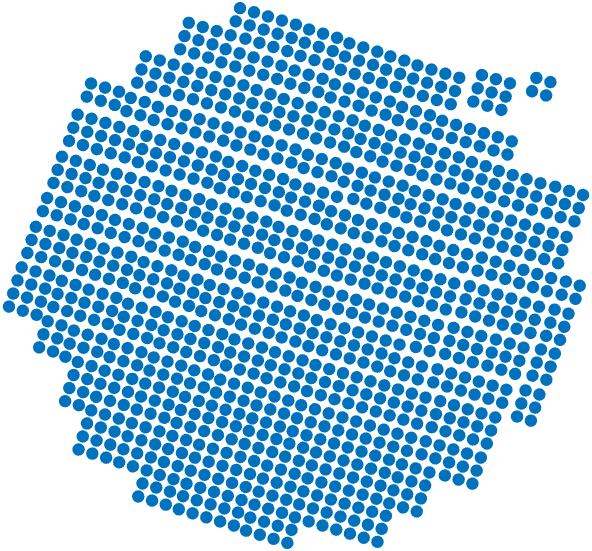
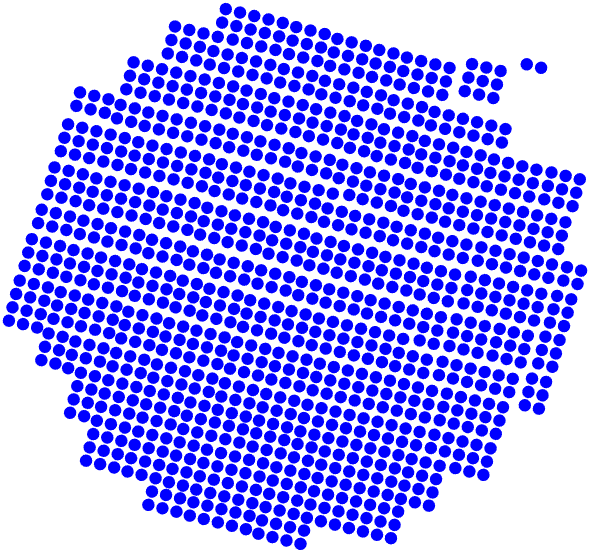
update

diff --git a/test.m b/test.m
@@ -1,0 +1,93 @@
+rng(1)
+close all
+num_points = 1000; % Number of random points
+xc = 0; % Center x-coordinate
+yc = 0; % Center y-coordinate
+width = 2; % Rectangle width
+height = 2; % Rectangle height
+theta = pi / 6; % Rotation angle (30 degrees)
+
+points = generate_random_points_in_rotated_rectangle(num_points, xc, yc, width, height, theta);
+
+
+% 计算数据的均值
+data_mean = mean(points);
+
+% 将数据中心化
+centered_data = points - data_mean;
+
+% 计算协方差矩阵
+cov_matrix = cov(centered_data);
+
+% 进行特征值分解
+[eigenvectors, eigenvalues] = eig(cov_matrix);
+
+% 提取特征值和特征向量
+[~, idx] = sort(diag(eigenvalues), 'descend'); % 按降序排序特征值
+principal_components = eigenvectors(:, idx);
+
+% 将数据投影到主成分方向
+transformed_data = centered_data * principal_components;
+
+% 绘制原始数据点云
+fig = figure("Name", "figure");
+
+subplot(1, 2, 1);
+scatter(points(:,1), points(:,2), 10, 'filled', 'color', 'b');
+hold on;
+title('Original 2D Points');
+xlabel('X');
+ylabel('Y');
+grid on;
+axis equal;
+
+% 绘制主成分方向
+for i = 1:2
+    % 绘制每个主成分方向
+    line([data_mean(1), data_mean(1) + principal_components(1,i)], ...
+         [data_mean(2), data_mean(2) + principal_components(2,i)], ...
+         'Color', 'r', 'LineWidth', 2, 'LineStyle', '--');
+end
+
+% 绘制中心点
+plot(data_mean(1), data_mean(2), 'kx', 'MarkerSize', 10, 'LineWidth', 2);
+hold off;
+legend({'Data Points', 'Principal Components'},'box', 'off');
+
+% 绘制转换后的数据点云
+subplot(1, 2, 2);
+scatter(transformed_data(:,1), transformed_data(:,2), 10, 'filled', 'color', 'b');
+title('PCA Transformed 2D Points');
+xlabel('Principal Component 1');
+ylabel('Principal Component 2');
+axis equal;
+grid on;
+
+% 设置整个图形窗口的属性
+set(gcf, 'Position', [100, 100, 800, 400]);
+
+exportgraphics(fig, "figure/f18.png", 'Resolution', 600);
+
+function points = generate_random_points_in_rotated_rectangle(num_points, xc, yc, width, height, theta)
+    % Generate points in a rotated rectangle
+    
+    % Define half-width and half-height for convenience
+    half_width = width / 2;
+    half_height = height / 2;
+    
+    % Generate random points within the [-0.5, 0.5] range
+    random_points = (rand(num_points, 2) - 0.5) .* [width, height];
+    
+    % Create rotation matrix
+    rotation_matrix = [cos(theta), -sin(theta); sin(theta), cos(theta)];
+    
+    % Rotate points around the origin (0, 0)
+    rotated_points = (rotation_matrix * random_points')';
+    
+    % Translate points to the center (xc, yc)
+    translated_points = rotated_points + [xc, yc];
+    
+    % Output the generated points
+    points = translated_points;
+    
+end

diff --git a/Task2.m b/Task2.m
@@ -80,7 +80,7 @@ for i = [7 8]
     
     % 绘制结果
     figure;
-    scatter(projected_points(:,1), projected_points(:,2), 'filled');
+    scatter(projected_points(:,1), projected_points(:,2), 'filled', 'b');
     hold on;
     theta = linspace(0, 2*pi, 100);
     x = center(1) + radius * cos(theta);

diff --git a/readme.md b/readme.md
@@ -76,6 +76,23 @@ k=\frac{\log (1-p)}{\log \left(1-w^{n}\right)}
 \end{array}
 $$
 
+#### 2.1.4 实现
+
+MATLAB已有对RANSAC算法的封装好的实现，即：
+
+```MATLAB
+[model,inlierIdx] = ransac(data,fitFcn,distFcn,sampleSize,maxDistance)
+```
+
+此外，针对各种点云数据拟合的问题，MATLAB也提供了相应的函数，且使用了RANSAC算法的优化变种：MSAC算法。即：
+
+```MATLAB
+% 拟合平面
+model = pcfitplane(ptCloudIn,maxDistance)
+% 拟合球面
+model = pcfitsphere(ptCloudIn,maxDistance)
+```
+
 ### 2.2 PCA降维
 
 #### 2.2.1 主要概念
@@ -116,11 +133,17 @@ end
 
 ### 2.3 最小圆覆盖算法
 
+#### 2.3.1 点云数据处理中的最小圆覆盖问题
+
 在对点云的圆平面进行检测时，往往会遇到圆平面的边界难以检测的问题，如下图：
 
 ![alt text](figure/f16.png)
 
-我们显然对这个点云数据集代表的是一个圆平面这个猜测十分有把握，但是由于部分点云没有检测到或被处理掉，导致圆的边界有所缺失，此时，我们很难通过精确的数学方程来解决这个问题。这个问题可以抽象为：给定 $n$ 个点的平面坐标，求一个半径最小的圆，把 $n$ 个点全部包围。常用算法是 [Welzl's algorithm](http://www.sunshine2k.de/coding/java/Welzl/Welzl.html)。这里仅给出该方法的伪代码（如果从递归的角度去思考，把原本的要求得的包含 $|P|$ 个点的最小圆覆盖问题，分解为包含 $|R| <= 3$ 个点的子问题，然后从这些子问题递归回原问题，也许有助于理解该方法的证明。另外值得注意的是，下面的递归算法中，永远有 $|R| <= 3$ ，因为一开始 $|R| == 0$ ，而当 $|R|$ 在递推增加至 $|R| == 3$ 时，算法立即返回 ）：
+我们显然对这个点云数据集代表的是一个圆平面这个猜测十分有把握，但是由于部分点云没有被检测到或被处理掉，导致圆的边界有所缺失，此时，我们很难通过精确的数学方程来解决这个问题。
+
+#### 2.3.2 最小圆覆盖算法
+
+上述问题可以抽象为：给定 $n$ 个点的平面坐标，求一个半径最小的圆，把 $n$ 个点全部包围。常用算法是 [Welzl's algorithm](http://www.sunshine2k.de/coding/java/Welzl/Welzl.html)。这里仅给出该方法的伪代码（如果从递归的角度去思考，把原本的要求得的包含 $|P|$ 个点的最小圆覆盖问题，分解为包含 $|R| <= 3$ 个点的子问题，然后从这些子问题递归回原问题，也许有助于理解该方法的证明。另外值得注意的是，下面的递归算法中，永远有 $|R| <= 3$ ，因为一开始 $|R| == 0$ ，而当 $|R|$ 在递推增加至 $|R| == 3$ 时，算法立即返回 ）：
 
 ```Fortran
 /*
@@ -140,3 +163,19 @@ function sed(P,R)
     return D;
 }
 ```
+
+### 2.4 最小外接矩形算法
+
+#### 2.4.1 点云数据处理中的最小外接矩形问题
+
+在对点云的矩形平面进行检测时，往往会遇到矩形平面的边界难以检测的问题，如下图的左侧所示：
+
+![alt text](figure/f17.png)
+
+我们显然对这个点云数据集代表的是一个矩形平面这个猜测十分有把握，但是由于部分点云没有被检测到或被处理掉，导致矩形的边界有所缺失，此时，我们很难通过精确的数学方程来解决这个问题。一种直观的想法是，先使用PCA，将数据点云数据旋转到变化最大的两个方向上，然后找出上述点云的在横坐标轴上的最大差值和在纵坐标轴上的最大差值，就能将其视为矩形的长度和宽度，这在矩形的长度显著大于其宽度时较为有效。但是，如果遇到了上图示例所示的情况，矩形的长度和宽度相差不大，那么PCA就会倾向于将原始点云数据的两条对角线作为新的坐标轴，并将点云数据旋转到这这个坐标轴上。如下图：
+
+![alt text](figure/f18.png)
+
+因此，我们需要更好的算法来处理上述问题。
+
+#### 2.4.2 点云数据处理中的最小外接矩形问题
